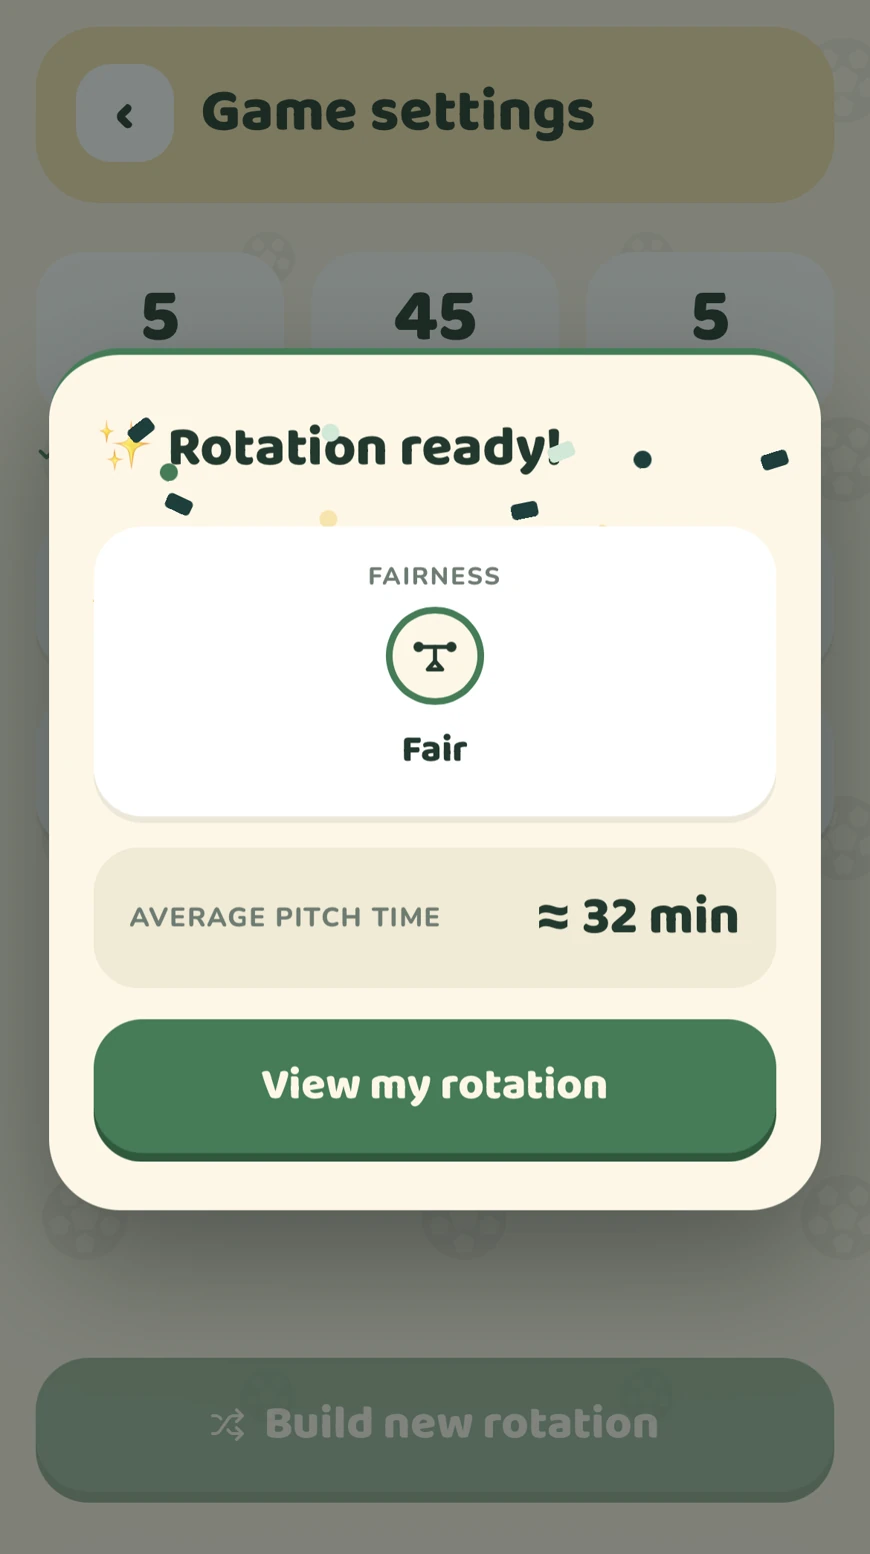
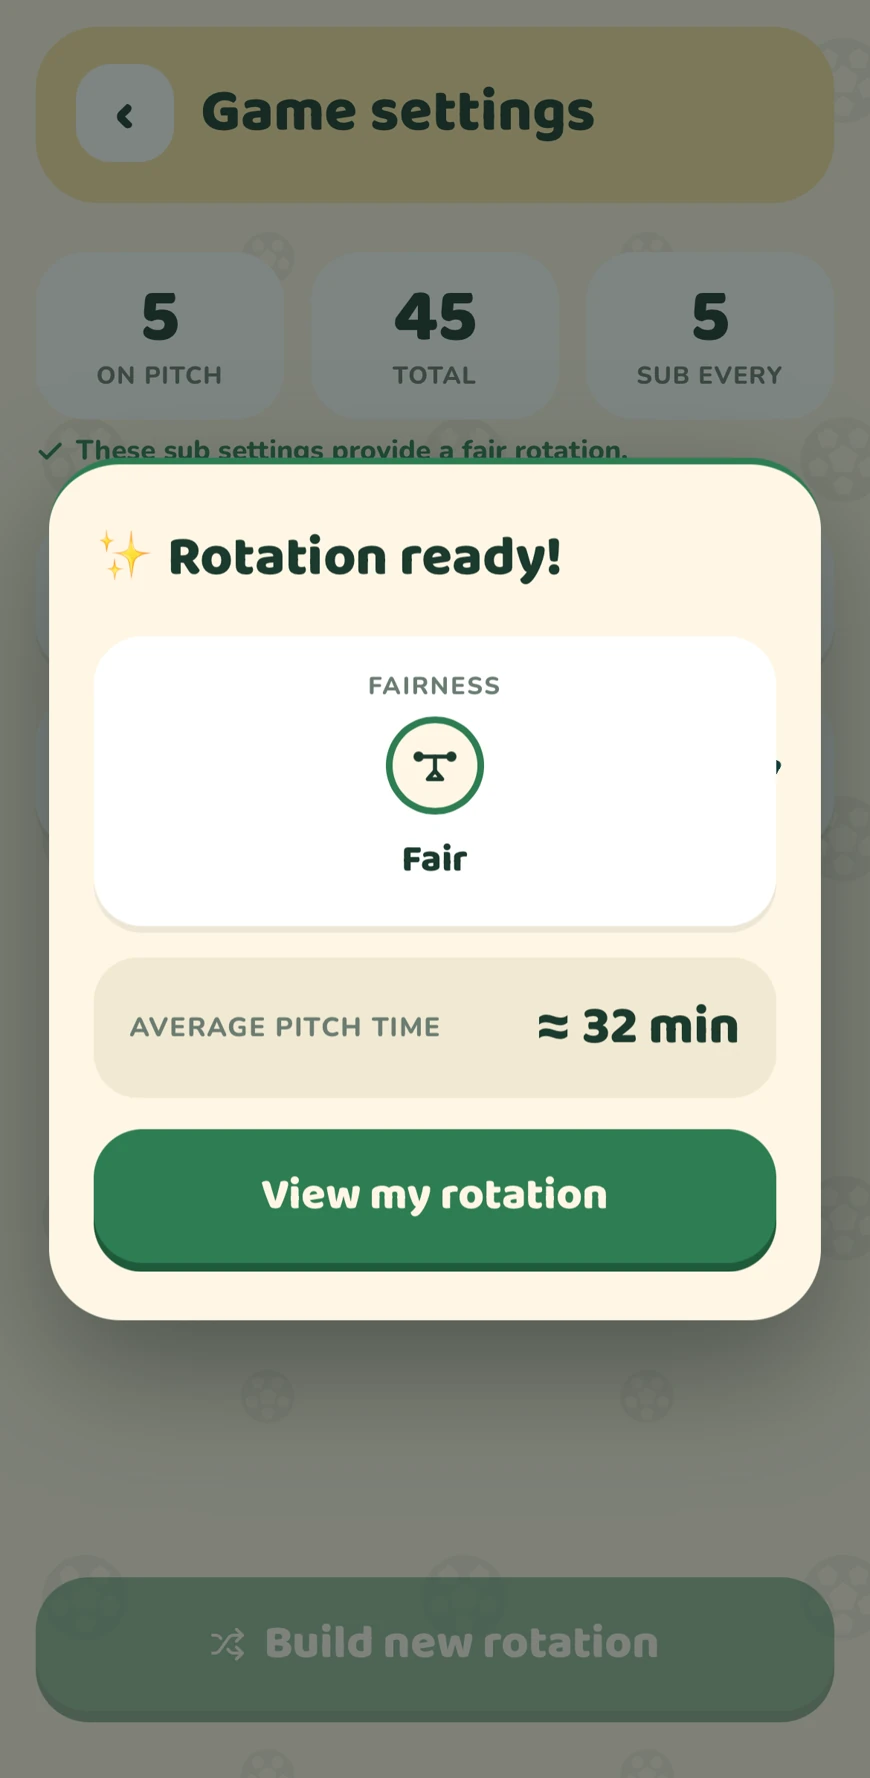
Replace all four screenshots with real PWA captures, restore squad step
The last batch was Safari screenshots — URL bar, status bar, and a
nearly-dead battery, cropped down afterward. This batch is captured
from the installed PWA directly: no browser chrome at all, just the OS
status bar (cropped the same way, now at the exact pixel row rather
than an approximation), full device height retained since there's no
bottom toolbar left to remove. Sharper, more honest, and higher effort
was clearly put into resetting the demo data between shots (fresh
names, a charged battery) than the last round.

One of the six sent this time is a genuinely new screen: the squad/
roster screen ("Set up new team," six players in) that was the missing
piece from last time. Step 1 goes back to "Add your players" / "Names,
shirt numbers, and who is available today" — copy that only became
"Set up your game" because there was no squad screenshot to match it
last time. This is the truer four-part story: add players, set up the
game, get the rotation, follow the match.

All four images re-cropped/scaled identically to the existing pipeline
(WebP, 870px wide, explicit width/height, lazy) but the crop shape
itself changes — 1170x2391 (status bar only) instead of 1170x2091
(status bar + Safari toolbar) — so .bb-phone__screen's aspect-ratio
moves to match (870/1554 -> 1170/2391) and every image's height
attribute updates 1554 -> 1778.

npm run lint clean.

diff --git a/marketing/index.html b/marketing/index.html
@@ -315,7 +315,7 @@
            "Five fewer things" headline above, which counts the cards). -->
       <div class="bb-proof" data-reveal>
         <div class="bb-phone bb-proof__phone">
-          <div class="bb-phone__screen"><img src="assets/screen-minutes.webp" alt="Today&rsquo;s Minutes in Bench Buddy: pitch, goal and bench time listed for all seven players, with totals" width="870" height="1554" loading="lazy" decoding="async"></div>
+          <div class="bb-phone__screen"><img src="assets/screen-minutes.webp" alt="Today&rsquo;s Minutes in Bench Buddy: pitch, goal and bench time listed for all seven players, with totals" width="870" height="1778" loading="lazy" decoding="async"></div>
         </div>
         <div class="bb-proof__copy">
           <h3 class="bb-h3 bb-h3--card">See exactly where the minutes went.</h3>
@@ -334,17 +334,17 @@
       </div>
       <div class="bb-how__grid">
         <div class="bb-step" data-reveal>
-          <div class="bb-phone"><div class="bb-phone__screen"><img src="assets/screen-setup.webp" alt="Bench Buddy game settings: five on the pitch, a 45 minute game, subs every five minutes" width="870" height="1554" loading="lazy" decoding="async"></div></div>
+          <div class="bb-phone"><div class="bb-phone__screen"><img src="assets/screen-setup.webp" alt="Adding players to a squad in Bench Buddy, six in so far, with sub settings already rated a fair rotation" width="870" height="1778" loading="lazy" decoding="async"></div></div>
           <div class="bb-step__text">
             <span class="bb-step__num">1</span>
             <div>
-              <h3 class="bb-h3 bb-h3--step">Set up your game</h3>
-              <p class="bb-body">How many on the pitch, how long the game is, and how often to sub.</p>
+              <h3 class="bb-h3 bb-h3--step">Add your players</h3>
+              <p class="bb-body">Names, shirt numbers, and who is available today.</p>
             </div>
           </div>
         </div>
         <div class="bb-step" data-reveal>
-          <div class="bb-phone"><div class="bb-phone__screen"><img src="assets/screen-rotation-ready.webp" alt="The rotation Bench Buddy has built, rated fair, averaging 32 minutes on the pitch each" width="870" height="1554" loading="lazy" decoding="async"></div></div>
+          <div class="bb-phone"><div class="bb-phone__screen"><img src="assets/screen-rotation-ready.webp" alt="The rotation Bench Buddy has built, rated fair, averaging 32 minutes on the pitch each" width="870" height="1778" loading="lazy" decoding="async"></div></div>
           <div class="bb-step__text">
             <span class="bb-step__num">2</span>
             <div>
@@ -354,7 +354,7 @@
           </div>
         </div>
         <div class="bb-step" data-reveal>
-          <div class="bb-phone"><div class="bb-phone__screen"><img src="assets/screen-match.webp" alt="A match in progress: who is coming off, who is coming on, and the countdown to the next sub" width="870" height="1554" loading="lazy" decoding="async"></div></div>
+          <div class="bb-phone"><div class="bb-phone__screen"><img src="assets/screen-match.webp" alt="A match in progress: two players coming off, one coming on, and the countdown to the next sub" width="870" height="1778" loading="lazy" decoding="async"></div></div>
           <div class="bb-step__text">
             <span class="bb-step__num">3</span>
             <div>

diff --git a/marketing/styles.css b/marketing/styles.css
@@ -479,7 +479,7 @@ h1, h2, h3, p { margin: 0; }
   position: relative;
   width: 100%;
   max-width: 290px;
-  aspect-ratio: 870 / 1554;
+  aspect-ratio: 1170 / 2391; /* status-bar-only crop (top 141px), no bottom chrome to remove — full-height PWA capture */
   border-radius: var(--radius-phone);
   background: var(--deep-green);
   padding: 7px;
